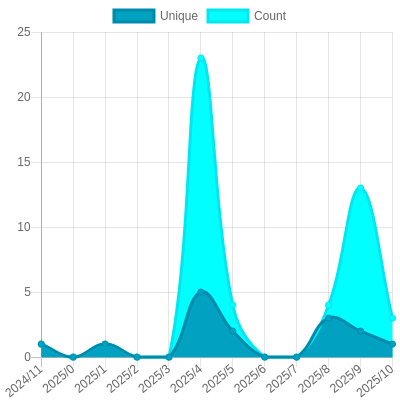
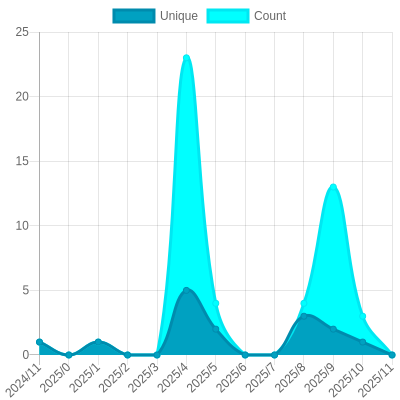
Update views

Changed region(s): [[0.0, 0.09, 0.99, 1.0], [0.03, 0.06, 0.09, 0.09]]

diff --git a/README.md b/README.md
@@ -26,7 +26,7 @@ The project created and maintained by [gayanvoice](https://github.com/gayanvoice
 			</a>
 		</td>
 		<td>
-			2024/11/29 1:00 AM UTC
+			2024/11/30 12:59 AM UTC
 		</td>
 		<td>
 			29
@@ -37,7 +37,7 @@ The project created and maintained by [gayanvoice](https://github.com/gayanvoice
 	</tr>
 </table>
 
-<small><i>Last updated on 2024/12/1 6:15 PM UTC</i></small>
+<small><i>Last updated on 2024/12/2 1:03 AM UTC</i></small>
 
 ## ✂Copy and 📋 Paste
 ### Total Views Badge

diff --git a/readme/254276202/year.md b/readme/254276202/year.md
@@ -20,6 +20,17 @@
 	</tr>
 	<tr>
 		<td>
+			<code>2024/12/1</code>
+		</td>
+		<td>
+			<code>0</code>
+		</td>
+		<td>
+			<code>0</code>
+		</td>
+	</tr>
+	<tr>
+		<td>
 			<code>2024/11/1</code>
 		</td>
 		<td>
@@ -153,7 +164,7 @@
 </table>
 
 </details>
-<small><i>Last updated on 2024/12/1 6:15 PM UTC</i></small>
+<small><i>Last updated on 2024/12/2 1:03 AM UTC</i></small>
 
 ## ✂Copy and 📋 Paste
 ### SVG Badge
